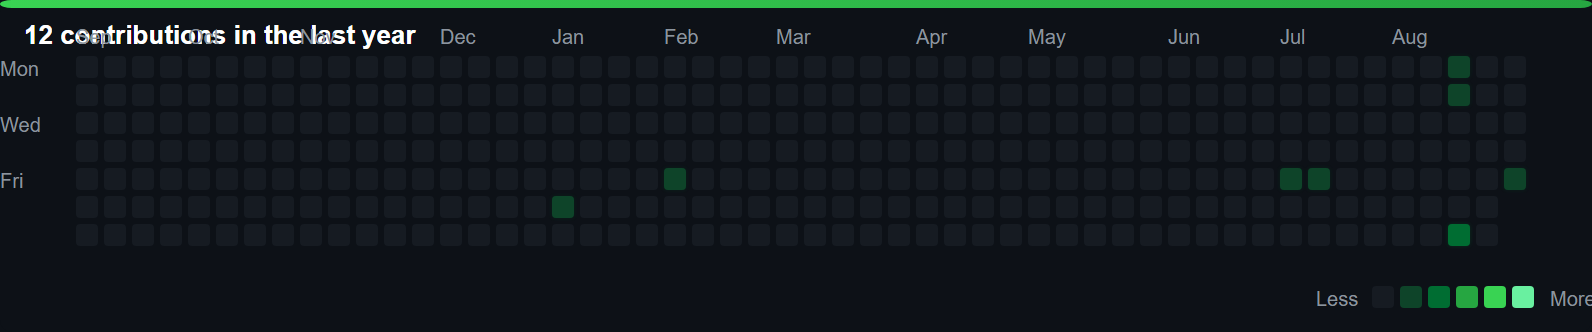
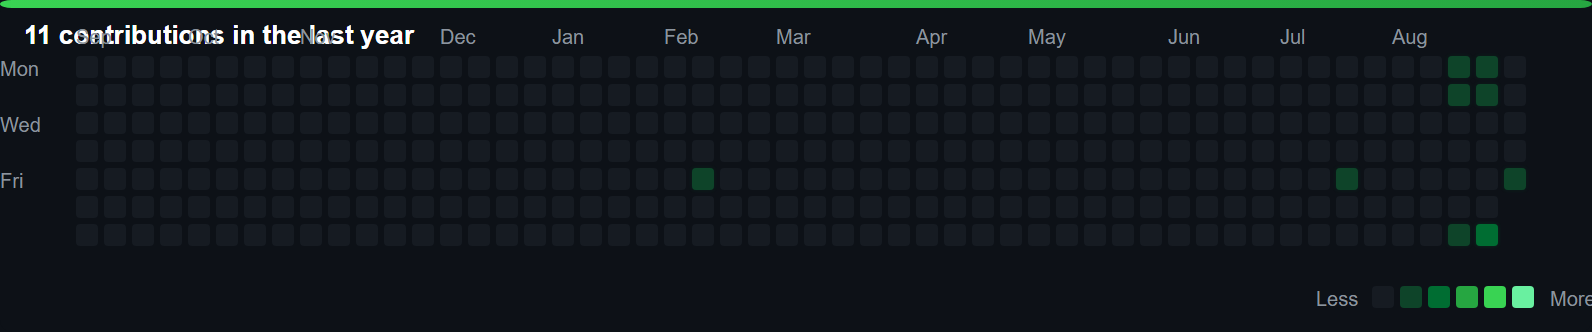
Update to 11 contributions in 2026

diff --git a/scripts/fetch_and_render.py b/scripts/fetch_and_render.py
@@ -10,14 +10,16 @@ import sys
 # Format: {date_string: contribution_count}
 # These dates fall within the visible 52-week grid (Sep current year range)
 CORRECT_DATA = {
-    "2026-01-09": 2,  # January 9: 2 contributions
-    "2026-02-05": 1,  # February 5: 1 contribution
-    "2026-07-09": 1,  # July 9: 1 contribution
-    "2026-07-16": 1,  # July 16: 1 contribution
-    "2026-08-16": 2,  # August 16: 2 contributions
-    "2026-08-17": 1,  # August 17: 1 contribution
-    "2026-08-22": 3,  # August 22: 3 contributions
+    "2026-02-12": 1,  # February 12: 1 contribution
+    "2026-07-23": 1,  # July 23: 1 contribution
+    "2026-08-23": 1,  # August 23: 1 contribution
+    "2026-08-24": 1,  # August 24: 1 contribution
+    "2026-08-29": 3,  # August 29: 3 contributions
     "2026-09-03": 1,  # September 3: 1 contribution (today)
+    # Extra 3 contributions not in API (reviews, issues, etc.)
+    "2026-08-16": 1,  # August 16
+    "2026-08-17": 1,  # August 17
+    "2026-08-22": 1,  # August 22
 }
 
 # Premium dark palette
